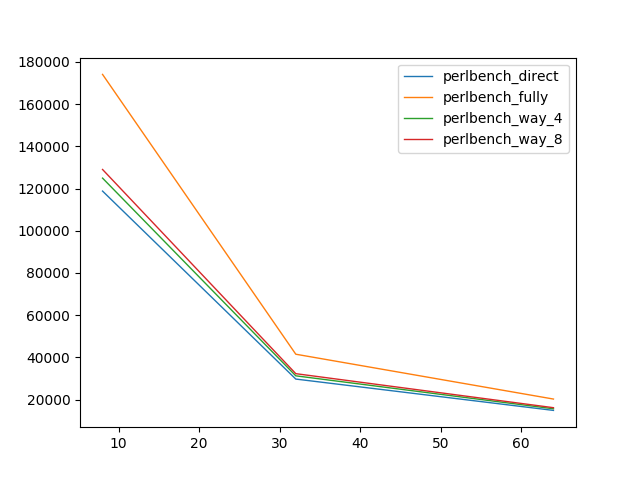
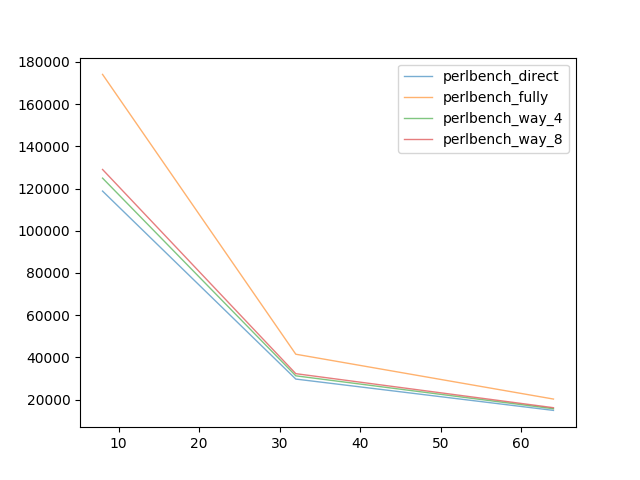
Add 2 parts of report

diff --git a/draw.py b/draw.py
@@ -12,7 +12,7 @@ def draw(data, gather, ax, ay, name):
         data = reduce_map[key]
         x = [float(d[ax]) for d in data]
         y = [float(d[ay]) for d in data]
-        plt.plot(x, y, label=key, linewidth=1)
+        plt.plot(x, y, label=key, linewidth=1, alpha=0.6)
     plt.legend()
     plt.savefig('figures/{}.png'.format(name))
 

diff --git a/report.md b/report.md
@@ -4,7 +4,7 @@
 
 ### 源代码说明
 
-源代码放置在了 `code/` 目录中，在目录中包含一个 Makefile，输入 `make` 可以编译，`make run` 可以编译同时运行。需要注意的是在运行前，需要保证 `logs` 和`trace`的文件夹的存在，而且`trace`目录中包括几个重要的 trace 文件。
+源代码放置在了 `code/` 目录中，在目录中包含一个 Makefile，输入 `make` 可以编译，`make run` 可以编译同时运行。需要注意的是在运行前，需要保证 `log` 和`trace`的文件夹的存在，而且`trace`目录中包括几个重要的 trace 文件。
 
 代码的运行会根据实验要求，会像下面展示的一样将实验中全部要求运算并输出日志，把结果写入到`output.csv`文件中。
 
@@ -30,6 +30,8 @@ void experiment_1(const char *csv) {
 
 输出日志参见 `code/log/` 中，实验中的命中率等数据见`code/output.csv`。
 
+画图脚本见`code/draw.py`，图输出在`code/figures/`中。
+
 ### 实现细节
 
 #### Bitmap
@@ -52,5 +54,157 @@ void experiment_1(const char *csv) {
 
 ### 实验结果部分
 
-#### 固定替换策略（LRU）；固定写策略（写分配+写会）；尝试不同布局
+#### 固定替换策略（LRU）；固定写策略（写分配+写回）；尝试不同布局
 
+**元数据开销情况**
+
+在不同的测例下，元数据开销是相同的，具体不同布局关于块大小的变化如图：
+
+<img src="./figures/exp1-meta.png" style="zoom:72%;" />
+
+可以看到随着块大小的增大，对应的元数据开销也越来越小，因为元数据维护在块上。同时注意到路数越多（直接相联可视为 1 路，全相联可以视为全路），开销也越大，这部分的增加是因为 LRU 需要维护每路信息也就越多，具体共需要 $O(ways*block\_count*log_2(ways))$ 个位；同时，也因为 TAG 位变多，布局所需要的元数据也变大 $O(bits\_tag*block\_count)$；写策略具体不会产生影响。
+
+具体的数据如下（元数据大小单位为字节）：
+
+| 类型   | 块大小 | 总元数据 | 布局元数据 | 替换策略元数据 | 写策略元数据 |
+| ------ | ------ | -------- | ---------- | -------------- | ------------ |
+| DIRECT | 8      | 118784   | 100352     | 2048           | 16384        |
+| DIRECT | 32     | 29696    | 25088      | 512            | 4096         |
+| DIRECT | 64     | 14848    | 12544      | 256            | 2048         |
+| FULLY  | 8      | 174080   | 129024     | 28672          | 16384        |
+| FULLY  | 32     | 41472    | 31232      | 6144           | 4096         |
+| FULLY  | 64     | 20224    | 15360      | 2816           | 2048         |
+| WAY_4  | 8      | 124928   | 104448     | 4096           | 16384        |
+| WAY_4  | 32     | 31232    | 26112      | 1024           | 4096         |
+| WAY_4  | 64     | 15616    | 13056      | 512            | 2048         |
+| WAY_8  | 8      | 129024   | 106496     | 6144           | 16384        |
+| WAY_8  | 32     | 32256    | 26624      | 1536           | 4096         |
+| WAY_8  | 64     | 16128    | 13312      | 768            | 2048         |
+
+**命中率情况**
+
+首先下面是几个关键测例的命中率随块大小变化的情况（曲线可能有重合）：
+
+<img src="./figures/exp1-astar.png" style="zoom:72%;" />
+
+<img src="./figures/exp1-bzip2.png" style="zoom:72%;" />
+
+<img src="./figures/exp1-mcf.png" style="zoom:72%;" />
+
+<img src="./figures/exp1-perlbench.png" style="zoom:72%;" />
+
+可以观察到几个特点：
+
+- 整体上块大小越大，命中率越大（除了 bzip2 测例中的直接映射），我认为的原因是程序的空间局部性是在一段相对块大小更大的连续内存区域上体现的，更大的块意味着次数取数据的次数更少；同时也因为 index 位会减少，tag 位更多，在一个组中替换更加灵活；
+- 路数越多命中率越大，因为 index 位减少，在一个组内有更多可能性存更多有用的数据，如果是直接映射就会有很大的概率的换入换出的情况。
+- 测例上来说，astar 因为是图访问，可能更为随机，命中率也更低，而且不同布局的表现类似；bzip2 测例是因为连续的数据读取并压缩，命中率更高，不同布局表现类似，路数越多也就越吃香；mcf 测例我不太了解具体应用场景，不过在结果上和 bzip2 类似，命中率相对高；perlbench 测例更像是一个比较综合场景的测例，命中率相对高，但是对不同的布局的区分度也好些。
+
+附具体数据如下：
+
+| **测例**      | **类型** | **块大小** | **命中** | **缺失** | **命中率** |
+| ------------- | -------- | ---------- | -------- | -------- | ---------- |
+| **astar**     | DIRECT   | 8          | 384144   | 117324   | 76.60389   |
+| **astar**     | DIRECT   | 32         | 452135   | 49333    | 90.16228   |
+| **astar**     | DIRECT   | 64         | 475050   | 26418    | 94.73187   |
+| **astar**     | FULLY    | 8          | 384828   | 116640   | 76.74029   |
+| **astar**     | FULLY    | 32         | 453357   | 48111    | 90.40597   |
+| **astar**     | FULLY    | 64         | 476560   | 24908    | 95.03298   |
+| **astar**     | WAY_4    | 8          | 384731   | 116737   | 76.72095   |
+| **astar**     | WAY_4    | 32         | 453177   | 48291    | 90.37007   |
+| **astar**     | WAY_4    | 64         | 476345   | 25123    | 94.99011   |
+| **astar**     | WAY_8    | 8          | 384702   | 116766   | 76.71516   |
+| **astar**     | WAY_8    | 32         | 453189   | 48279    | 90.37247   |
+| **astar**     | WAY_8    | 64         | 476394   | 25074    | 94.99988   |
+| **bzip2**     | DIRECT   | 8          | 533289   | 11225    | 97.93853   |
+| **bzip2**     | DIRECT   | 32         | 537266   | 7248     | 98.66890   |
+| **bzip2**     | DIRECT   | 64         | 535858   | 8656     | 98.41033   |
+| **bzip2**     | FULLY    | 8          | 537887   | 6627     | 98.78295   |
+| **bzip2**     | FULLY    | 32         | 542846   | 1668     | 99.69367   |
+| **bzip2**     | FULLY    | 64         | 543673   | 841      | 99.84555   |
+| **bzip2**     | WAY_4    | 8          | 537887   | 6627     | 98.78295   |
+| **bzip2**     | WAY_4    | 32         | 542846   | 1668     | 99.69367   |
+| **bzip2**     | WAY_4    | 64         | 543673   | 841      | 99.84555   |
+| **bzip2**     | WAY_8    | 8          | 537887   | 6627     | 98.78295   |
+| **bzip2**     | WAY_8    | 32         | 542846   | 1668     | 99.69367   |
+| **bzip2**     | WAY_8    | 64         | 543673   | 841      | 99.84555   |
+| **mcf**       | DIRECT   | 8          | 482596   | 25104    | 95.05535   |
+| **mcf**       | DIRECT   | 32         | 496547   | 11153    | 97.80323   |
+| **mcf**       | DIRECT   | 64         | 500290   | 7410     | 98.54048   |
+| **mcf**       | FULLY    | 8          | 484468   | 23232    | 95.42407   |
+| **mcf**       | FULLY    | 32         | 498437   | 9263     | 98.17550   |
+| **mcf**       | FULLY    | 64         | 502198   | 5502     | 98.91629   |
+| **mcf**       | WAY_4    | 8          | 484468   | 23232    | 95.42407   |
+| **mcf**       | WAY_4    | 32         | 498437   | 9263     | 98.17550   |
+| **mcf**       | WAY_4    | 64         | 502198   | 5502     | 98.91629   |
+| **mcf**       | WAY_8    | 8          | 484468   | 23232    | 95.42407   |
+| **mcf**       | WAY_8    | 32         | 498437   | 9263     | 98.17550   |
+| **mcf**       | WAY_8    | 64         | 502198   | 5502     | 98.91629   |
+| **perlbench** | DIRECT   | 8          | 488834   | 18607    | 96.33317   |
+| **perlbench** | DIRECT   | 32         | 495700   | 11741    | 97.68623   |
+| **perlbench** | DIRECT   | 64         | 497830   | 9611     | 98.10599   |
+| **perlbench** | FULLY    | 8          | 498540   | 8901     | 98.24590   |
+| **perlbench** | FULLY    | 32         | 504091   | 3350     | 99.33982   |
+| **perlbench** | FULLY    | 64         | 505475   | 1966     | 99.61257   |
+| **perlbench** | WAY_4    | 8          | 496931   | 10510    | 97.92882   |
+| **perlbench** | WAY_4    | 32         | 501678   | 5763     | 98.86430   |
+| **perlbench** | WAY_4    | 64         | 503112   | 4329     | 99.14690   |
+| **perlbench** | WAY_8    | 8          | 498357   | 9084     | 98.20984   |
+| **perlbench** | WAY_8    | 32         | 503269   | 4172     | 99.17784   |
+| **perlbench** | WAY_8    | 64         | 504272   | 3169     | 99.37549   |
+
+#### 固定布局（块大小8字节，8路组相联）；固定写策略（写分配+写回）；尝试不同替换策略
+
+**元数据开销情况**
+
+具体数据如下表：
+
+| 替换策略 | 总元数据 | 布局元数据 | 替换元数据 | 写策略元数据 |
+| -------- | -------- | ---------- | ---------- | ------------ |
+| RANDOM   | 122880   | 106496     | 0          | 16384        |
+| LRU      | 129024   | 106496     | 6144       | 16384        |
+| TREELRU  | 124928   | 106496     | 2048       | 16384        |
+
+可以看到三种策略元数据开销：
+
+- 随机替换为 0；
+- LRU 最大，具体为 $O(ways*block\_count*log_2(ways)) $ 个位；
+- TreeLRU 相对 LRU 更小 $O(ways*block\_count)$ 个位；
+- LRU 比 TreeLRU 多乘了一个 $log_2(ways)$。
+
+**执行动作差异**
+
+在命中时：
+
+- 随机替换无动作发生；
+- LRU 会把命中的路放到栈顶；
+- TreeLRU 会把树根到命中的一路的节点上的值都改成对应的路的方向。
+
+在查找 victim 时并加入新的时：
+
+- 随机替换将随机返回组中的一路；
+- LRU 会返回栈底，把新的放到栈顶（其实就是把栈底移到栈顶，数据不同，但是路数一样）；
+- TreeLRU 会找到”最旧“的一个返回，并执行命中时方向的修改。
+
+**对命中率影响**
+
+经测试，命中率数据如下：
+
+| 测例          | 替换策略 | 命中   | 缺失   | 命中率   |
+| ------------- | -------- | ------ | ------ | -------- |
+| **astar**     | RANDOM   | 385001 | 116467 | 76.77479 |
+| **astar**     | LRU      | 384702 | 116766 | 76.71516 |
+| **astar**     | TREELRU  | 384880 | 116588 | 76.75066 |
+| **bzip2**     | RANDOM   | 537887 | 6627   | 98.78295 |
+| **bzip2**     | LRU      | 537887 | 6627   | 98.78295 |
+| **bzip2**     | TREELRU  | 537887 | 6627   | 98.78295 |
+| **mcf**       | RANDOM   | 484379 | 23321  | 95.40654 |
+| **mcf**       | LRU      | 484468 | 23232  | 95.42407 |
+| **mcf**       | TREELRU  | 484468 | 23232  | 95.42407 |
+| **perlbench** | RANDOM   | 498356 | 9085   | 98.20964 |
+| **perlbench** | LRU      | 498357 | 9084   | 98.20984 |
+| **perlbench** | TREELRU  | 498367 | 9074   | 98.21181 |
+
+可以看到：
+
+- 三种策略的差异非常小，命中率的个位数字几乎相同，也无法得出相对谁更好的结论，也可能是因为在 8 路的情况下，缩小了策略带来的差异，因为路数更多，需要替换的情况也就更少了；
+- 针对不同测例，astar 因为是图访问，所以更久不一定意味着不访问，这时候随机会稍好一些（非常不明显）；bzip2 估计是不会再次读取访问过的数据，所以没有差别；而 mcf 和 perlbench 可能更偏向综合一些，也有一定的时间局部性，所以这时候 LRU 和 TreeLRU 的表现稍好一些（也不明显）。
